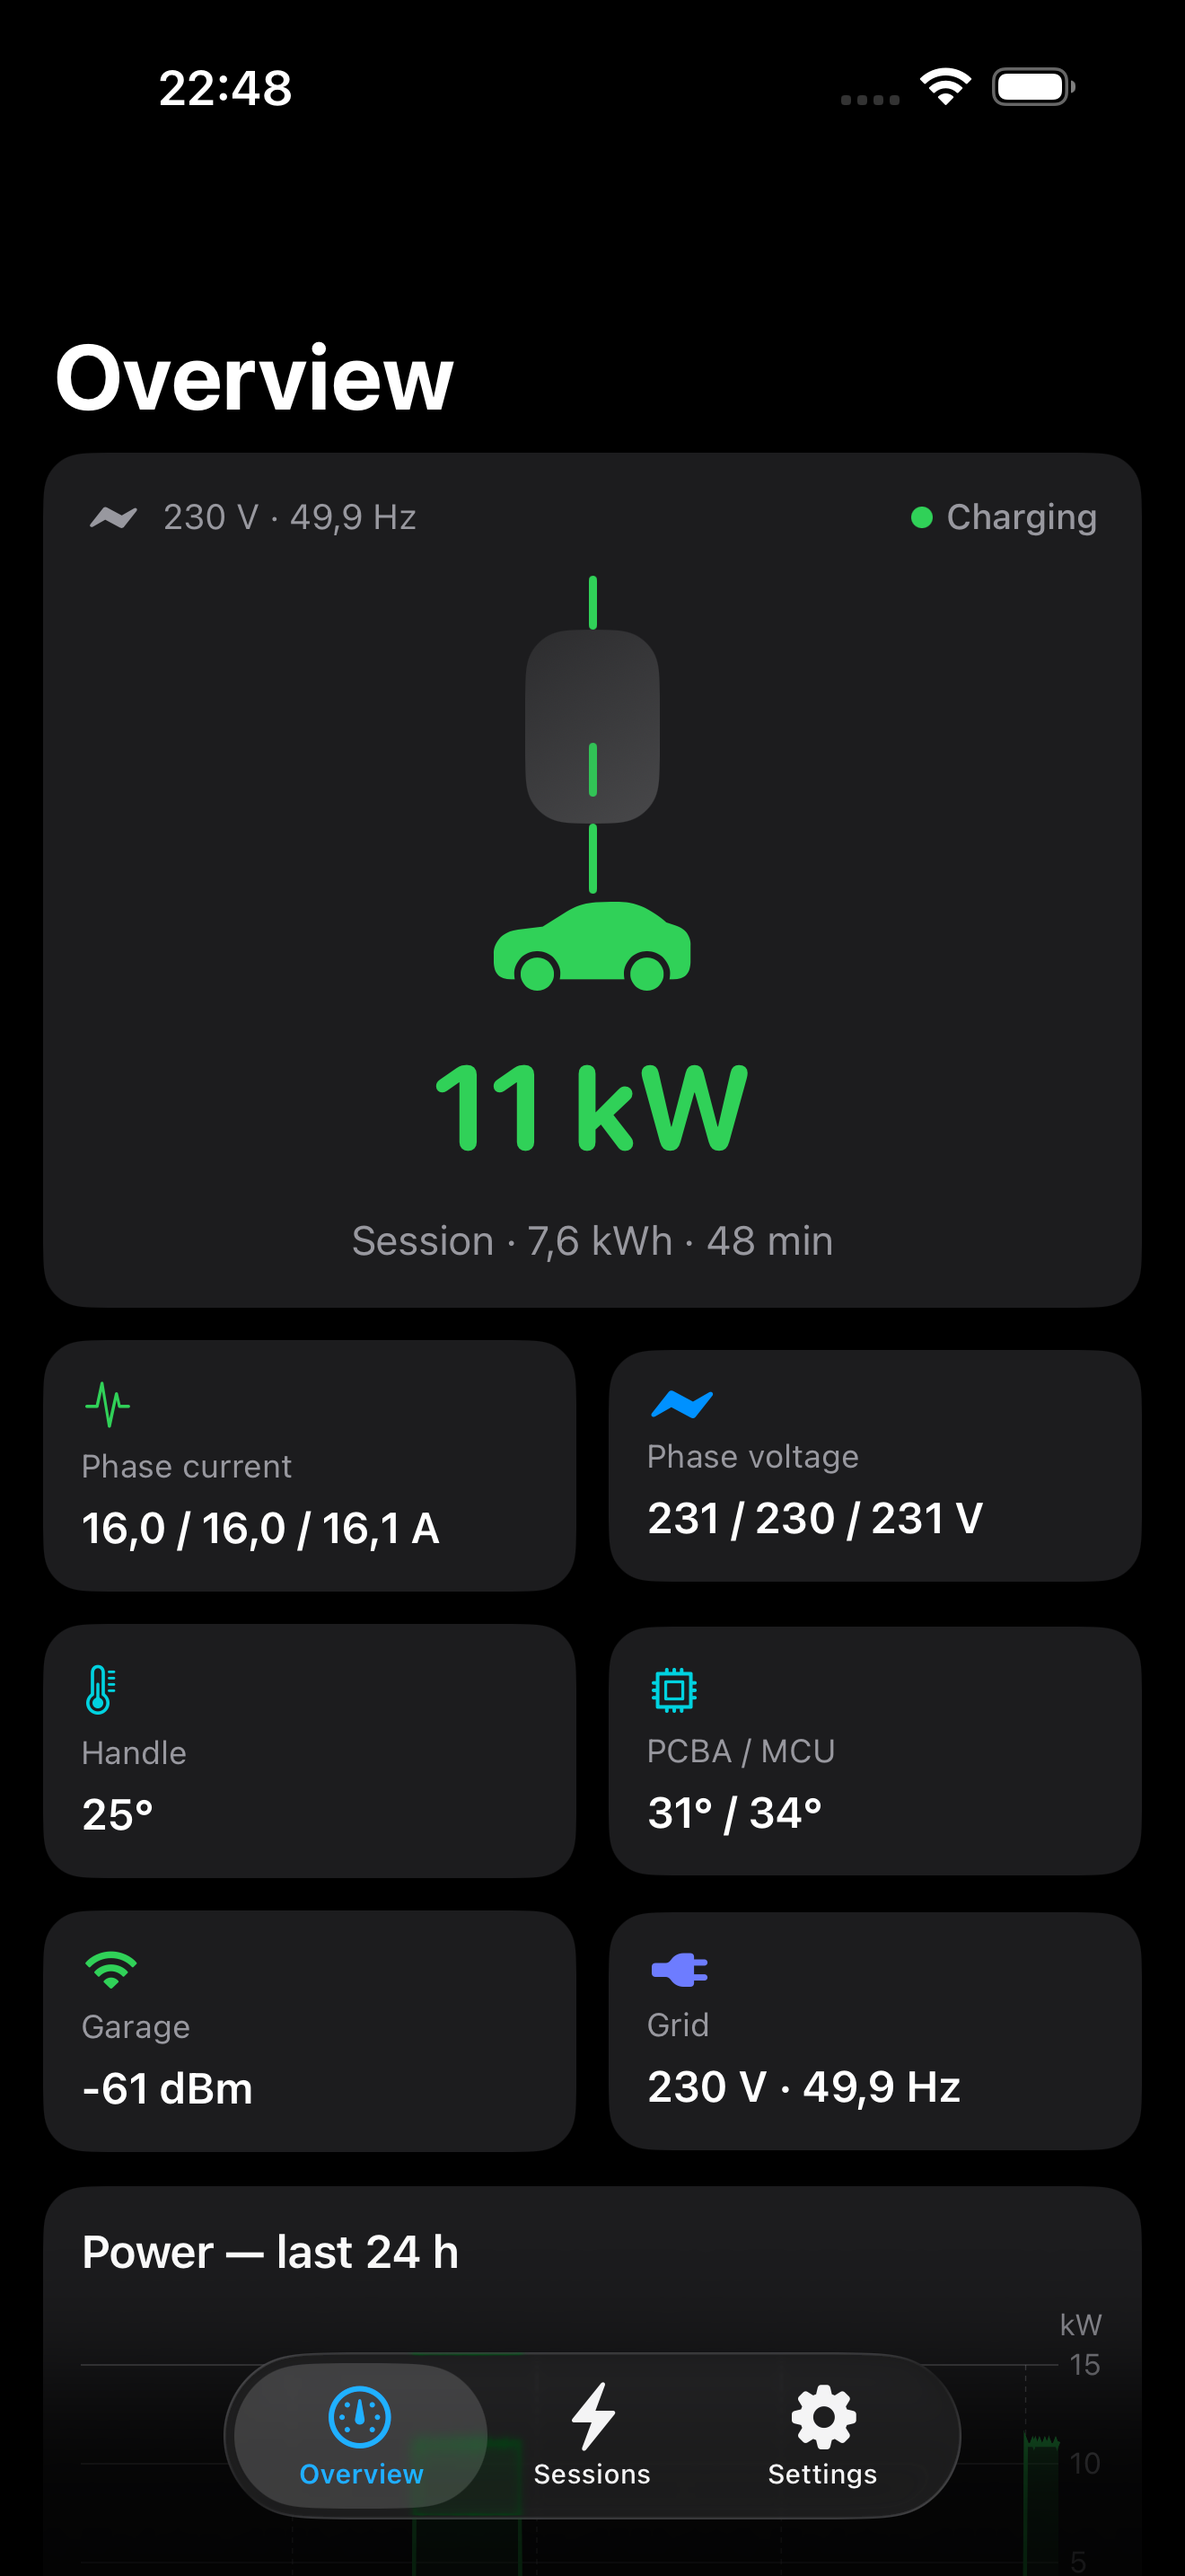
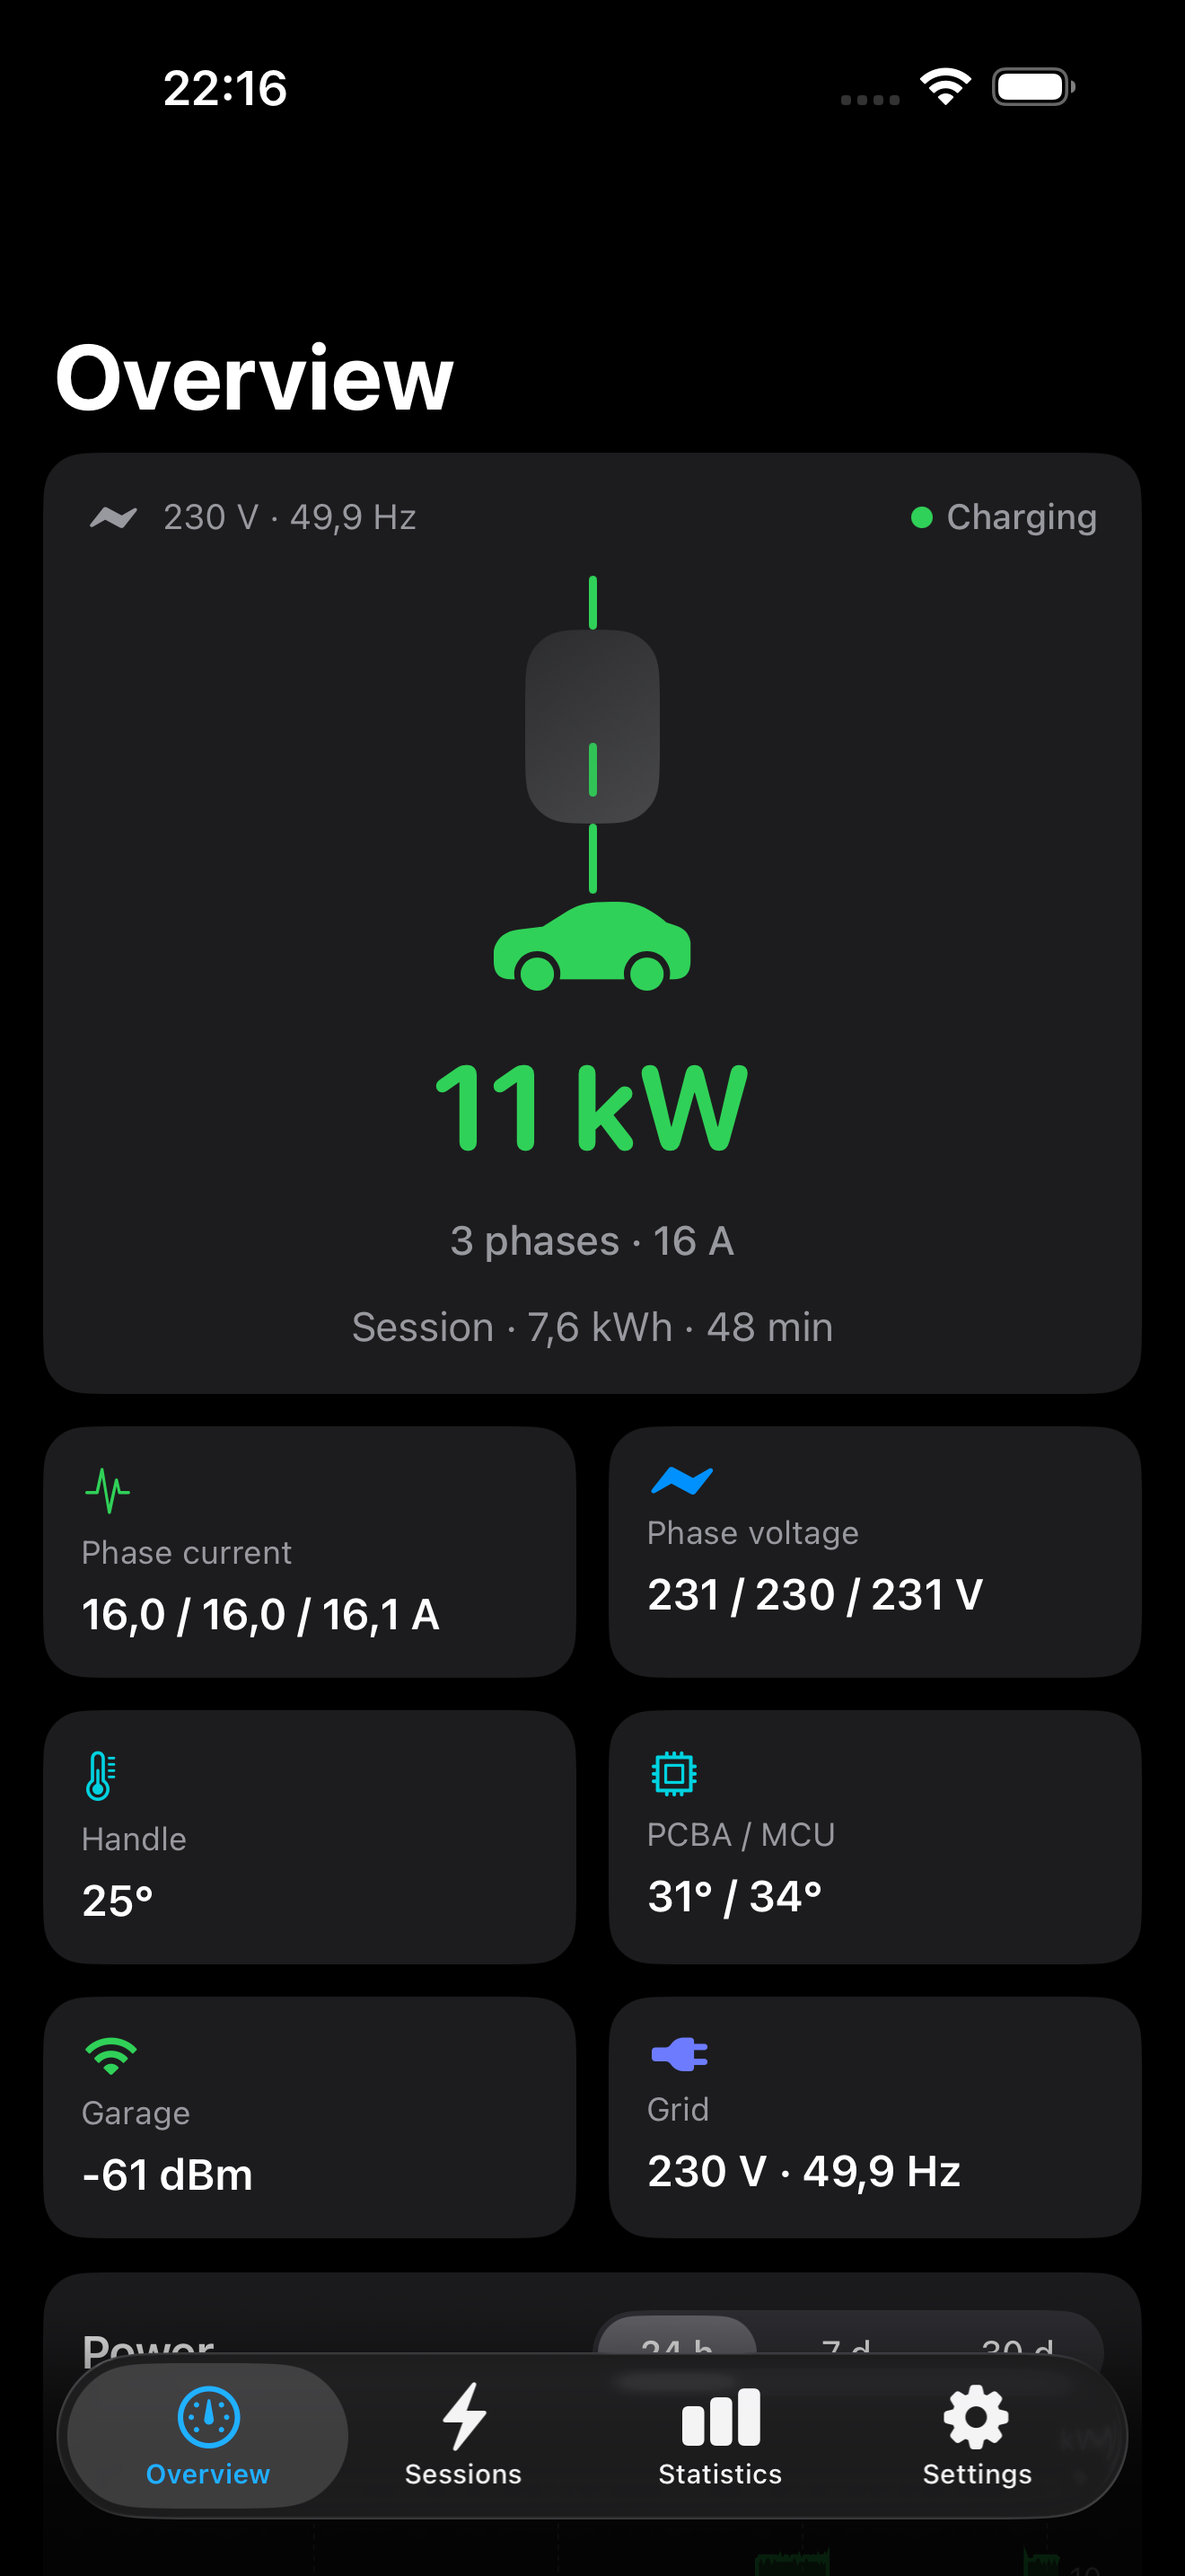
Retake the store screenshots for 1.0
Eight shots from the demo on an iPhone 17 Pro Max in dark mode: overview, sessions, a session with its curves, statistics, the lifetime comparison, the Wi-Fi history, About and the start screen. The comparison chart's month axis got short labels so that twelve months fit.

Changed region(s): [[0.0311, 0.4655, 0.9629, 0.993], [0.6212, 0.993, 0.7144, 1.0], [0.1553, 0.031, 0.2485, 0.0621]]

diff --git a/Sources/LifetimeHistoryView.swift b/Sources/LifetimeHistoryView.swift
@@ -18,6 +18,8 @@ struct LifetimeHistoryView: View {
         var id: Date { month }
         var gap: Double? { charger.map { $0 - logged } }
         var title: String { month.formatted(.dateTime.month(.abbreviated).year()) }
+        // The chart squeezes twelve of these side by side; the table has room for the year.
+        var short: String { month.formatted(.dateTime.month(.abbreviated)) }
     }
 
     var body: some View {
@@ -28,12 +30,12 @@ struct LifetimeHistoryView: View {
                         Chart {
                             ForEach(months) { m in
                                 if let charger = m.charger {
-                                    BarMark(x: .value("Month" as String, m.title),
+                                    BarMark(x: .value("Month" as String, m.short),
                                             y: .value("kWh" as String, charger / 1000))
                                         .foregroundStyle(by: .value("Source" as String, "Charger"))
                                         .position(by: .value("Source" as String, "Charger"))
                                 }
-                                BarMark(x: .value("Month" as String, m.title),
+                                BarMark(x: .value("Month" as String, m.short),
                                         y: .value("kWh" as String, m.logged / 1000))
                                     .foregroundStyle(by: .value("Source" as String, "Logged here"))
                                     .position(by: .value("Source" as String, "Logged here"))
